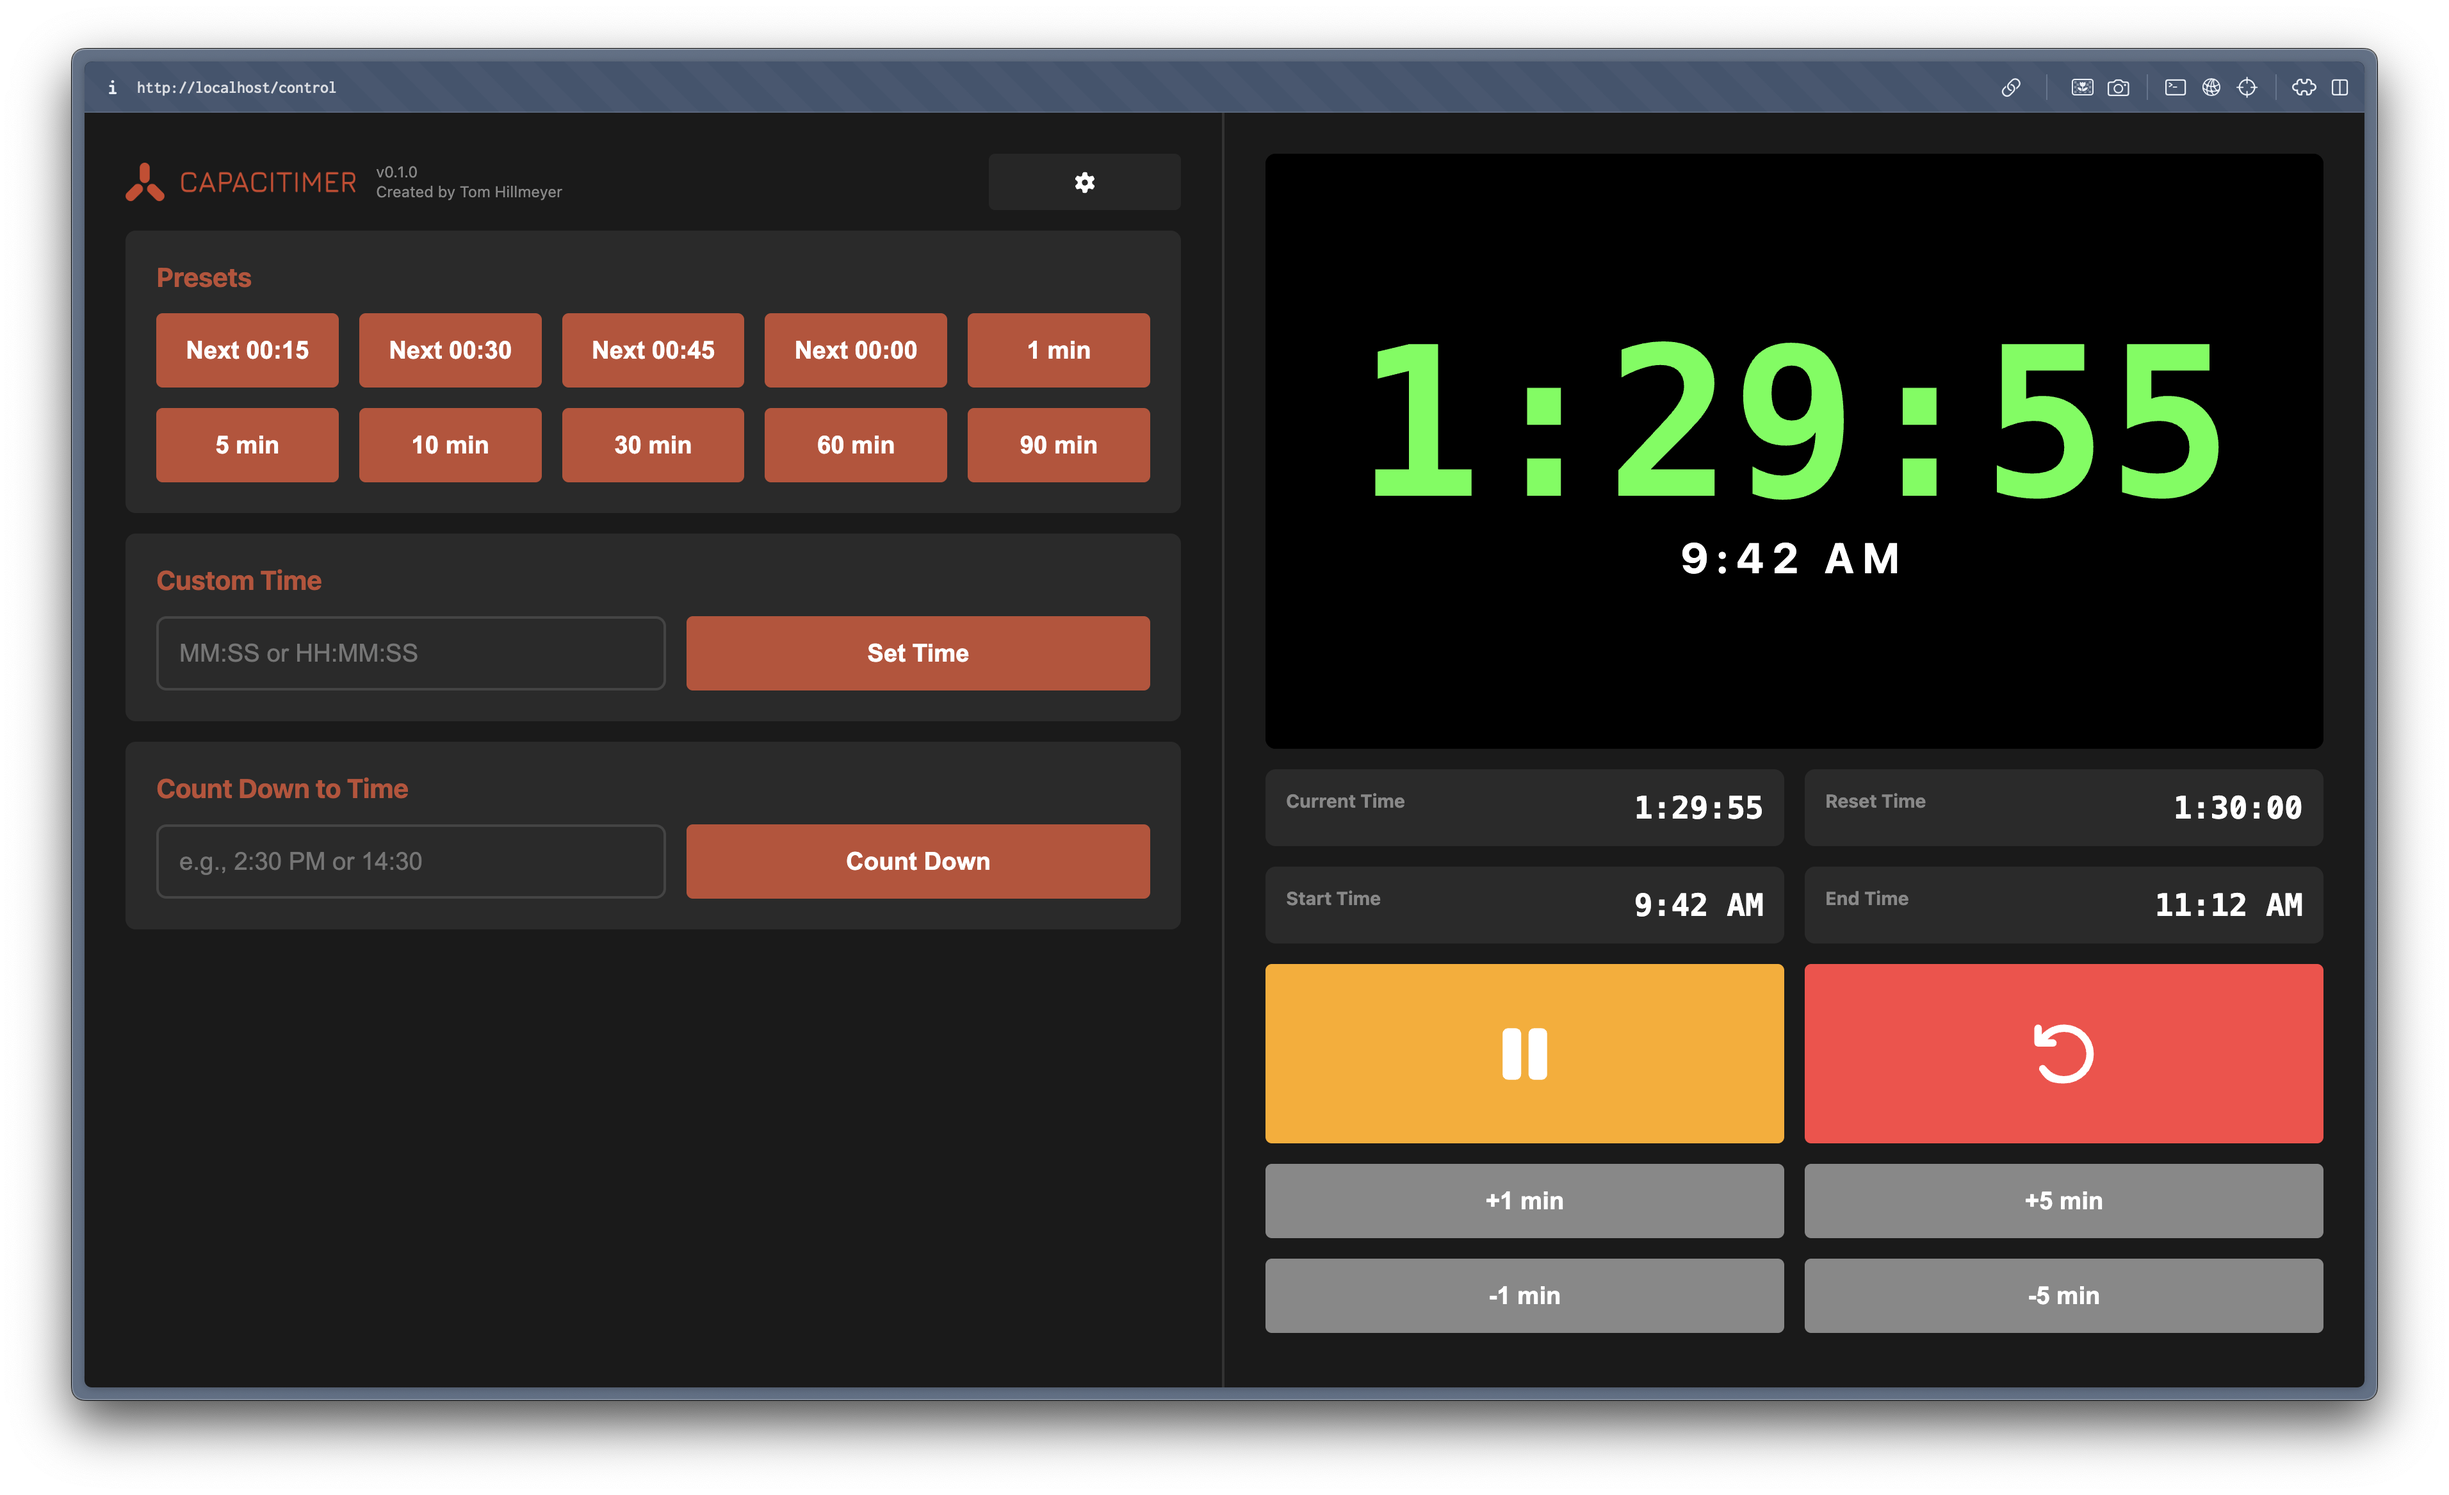
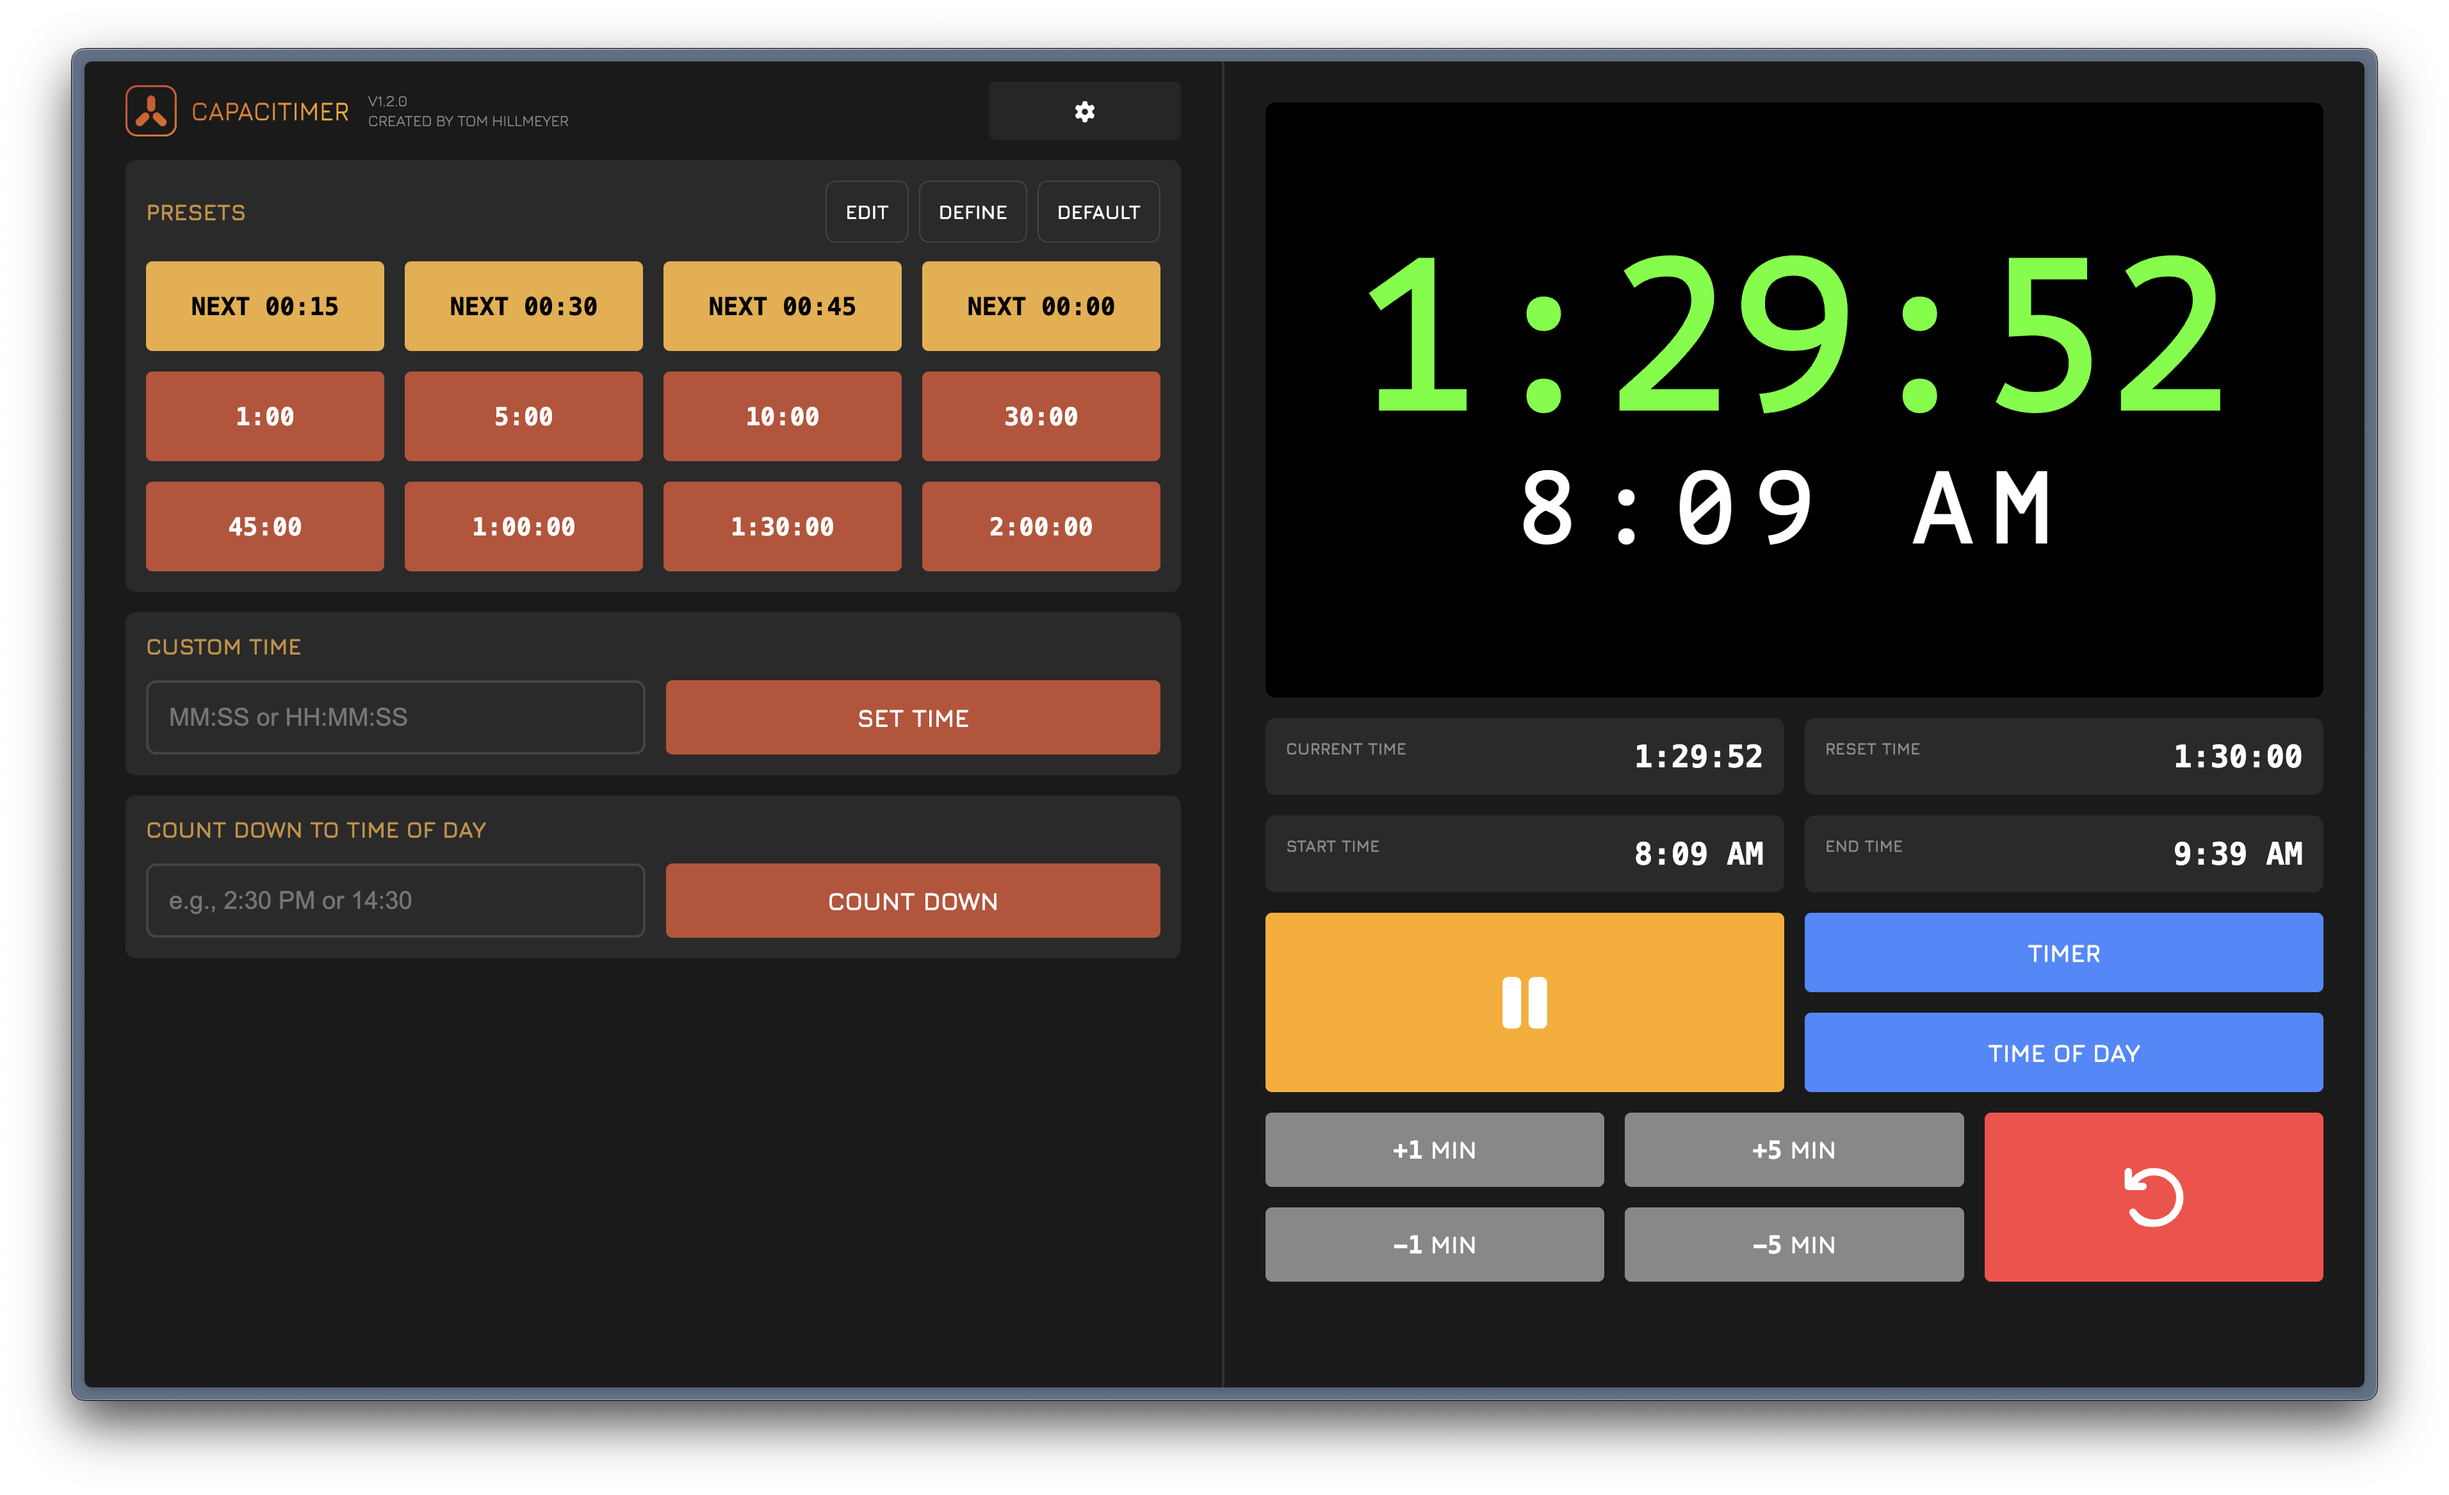
Update README

diff --git a/README.md b/README.md
@@ -1,7 +1,7 @@
 
 ![Logo](https://github.com/tomhillmeyer/capacitimer/blob/main/assets/capacitimer-wordmark.png?raw=true)
 
-A flexible, network-controllable speaker timer
+A flexible, network-controllable speaker timer.
 
 ## How to use
 
@@ -28,13 +28,20 @@ There is a display view on the web server, so you could run this headless on you
 Finally, you could run the app on a computer on an external display and control it locally on a browser on another monitor.
 
 
-
-
 ## Installation
 
-### Linux Server Installation (Raspberry Pi / Intel NUC)
+### Desktop Installation
 
-One-line install for Raspberry Pi (Pi OS/Pi OS Lite) or Intel NUC (Ubuntu):
+Download the latest release for your platform:
+- **macOS**: `Capacitimer-X.X.X-mac-arm64.dmg` (Apple Silicon) or `Capacitimer-X.X.X-mac-x64.dmg` (Intel)
+- **Windows**: `Capacitimer-X.X.X-windows-x64.exe`
+- **Linux Desktop**: `Capacitimer-X.X.X-linux-arm64.deb` (ARM) or `Capacitimer-X.X.X-linux-amd64.deb` (x64)
+
+Get the latest releases at: https://github.com/tomhillmeyer/capacitimer/releases
+
+### Linux Server Installation (Raspberry Pi, Intel NUC, etc.)
+
+Run this command to install the latest version of Capacitimer on your device. This will set up your device to launch the app full screen on boot. Run this same command again to update your device to the latest version.
 
 ```bash
 curl -fsSL https://raw.githubusercontent.com/tomhillmeyer/capacitimer/main/install.sh | bash
@@ -45,26 +52,13 @@ After installation completes, reboot:
 sudo reboot
 ```
 
-The system will automatically boot to fullscreen timer display. Control it from any device on your network at `http://DEVICE_IP/control.html`
-
-For detailed instructions, see [QUICK-START.md](QUICK-START.md).
-
-### Desktop Installation
-
-Download the latest release for your platform:
-- **macOS**: `Capacitimer-X.X.X-mac-arm64.dmg` (Apple Silicon) or `Capacitimer-X.X.X-mac-x64.dmg` (Intel)
-- **Windows**: `Capacitimer-X.X.X-windows-x64.exe`
-- **Linux Desktop**: `Capacitimer-X.X.X-linux-amd64.deb` or `.tar.gz`
-
-Get the latest releases at: https://github.com/tomhillmeyer/capacitimer/releases
-
 ## API (beta)
 
 Capacitimer provides both a REST API and WebSocket interface for remote control and integration with external systems. Control the timer programmatically, integrate with automation tools, or build custom interfaces.
 
 For complete API documentation including all endpoints, WebSocket events, and integration examples, see [API.md](API.md).
 
-NOTE: API commands subject to change in future versions
+NOTE: API commands subject to change in future versions.
 
 ### Quick Start
 
@@ -99,15 +93,9 @@ The module will provide:
 
 - Background color / images
 
-- Custom presets
-
-- Custom fonts
-
 - Message displays
 
 - Counting up
-
-
 
 
 ## Screenshots
